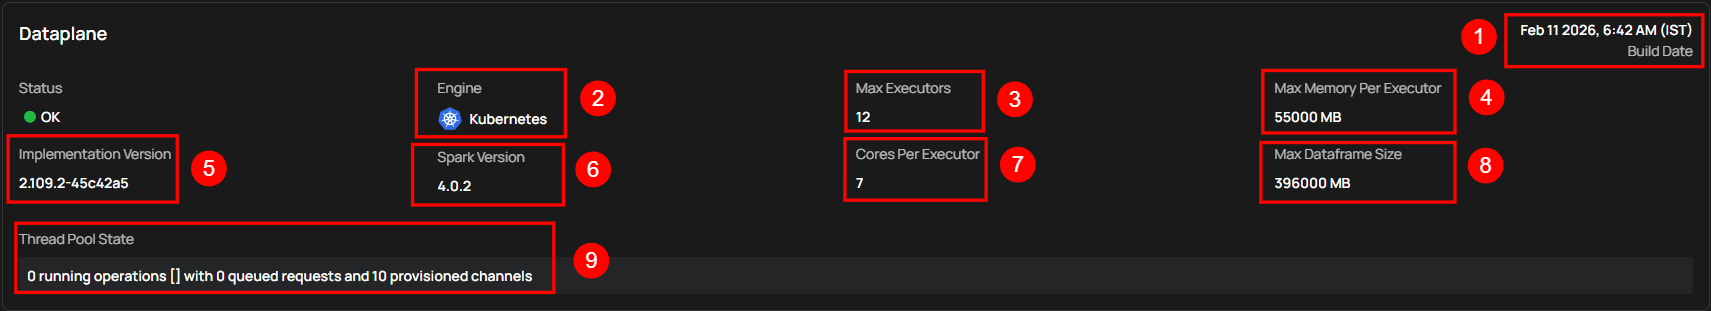
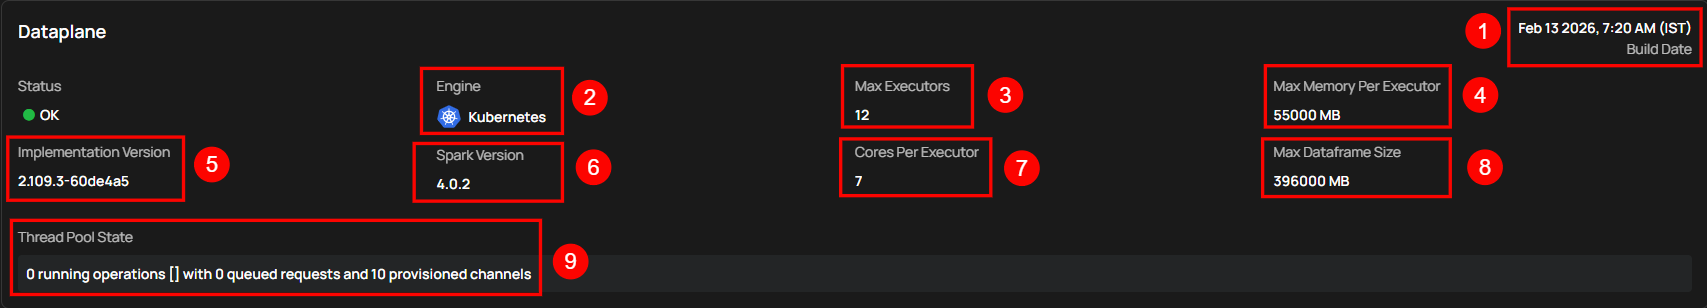
QUA-1394: Update "Status" userguide.

diff --git a/docs/settings/status/overview-of-status.md b/docs/settings/status/overview-of-status.md
@@ -42,15 +42,15 @@ The **Dataplane** section provides advanced information about the analytics engi
 
 | REF | FIELD | ACTION | EXAMPLE |
 |-----|-------|--------|---------|
-| 1 | Build Date | This shows the date and time when the Analytics Engine was built. | Aug 8 2024,7:39 AM (GMT+5:30) |
+| 1 | Build Date | This shows the date and time when the Analytics Engine was built. | Feb 13 2026, 7:20 AM (IST) |
 | 2 | Engine | Shows the platform used to run and manage workloads. | Kubernetes |
-| 3 | Max Executors | Maximum number of executors allocated for processing tasks. | 10 |
-| 4 | Max Memory Per Executor | This shows the maximum amount of memory allocated to each executor. | 25000 MB |
-| 5 | Implementation Version | The version of the analytics engine implementation being used.  | 2.0.0 |
-| 6 | Spark Version | The version of Apache Spark that the Analytics Engine uses for processing. | 3.5.1 |
-| 7 | Core Per Executor | This shows the number of CPU cores assigned to each executor. | 3 |
-| 8 | Max Dataframe Size | The maximum size of dataframes that can be processed.  | 50000 MB |
-| 9 | Thread Pool State | Indicates the current state of the thread pool used for executing tasks.  | \[Running, parallelism \= 3, size \= 0, active \= 0, running \= 0, steals \= 0, tasks \= 0, submissions \= 0\] supporting 0 running operation with 0 queued requests |
+| 3 | Max Executors | Maximum number of executors allocated for processing tasks. | 12 |
+| 4 | Max Memory Per Executor | This shows the maximum amount of memory allocated to each executor. | 55000 MB |
+| 5 | Implementation Version | The version of the analytics engine implementation being used.  | 2.109.3-60de4a5 |
+| 6 | Spark Version | The version of Apache Spark that the Analytics Engine uses for processing. | 4.0.2 |
+| 7 | Core Per Executor | This shows the number of CPU cores assigned to each executor. | 7 |
+| 8 | Max Dataframe Size | The maximum size of dataframes that can be processed.  | 396000 MB |
+| 9 | Thread Pool State | Indicates the current state of the thread pool used for executing tasks.  | 0 running operations [] with 0 queued requests and 10 provisioned channels |
 
 ![analytics-engine](../../assets/health/analytics-engine-light-5.png)
 
@@ -110,7 +110,7 @@ The **Copy Status Summary** feature lets you duplicate all data from the Health 
 
 ![copy-health](../../assets/health/copy-health-light-6.png)
 
-**Step 2:** After clicking on **Copy Status Summary**,  a success message saying **Copied.**
+**Step 2:** After clicking on **Copy Status Summary**, a success message appears saying **Copied.**
 
 ![copied](../../assets/health/copied-light-7.png)
 
@@ -134,7 +134,7 @@ The **Restart Analytics Engine** option restarts the analytics processing system
 
 ![restart](../../assets/health/restart-light-10.png)
 
-**Step 3:** After clicking on **Restart** button a success message saying **Successfully triggered Analytics Engine restart.**
+**Step 3:** After clicking on the **Restart** button, a success message appears saying **Successfully triggered Analytics Engine restart.**
 
 ![successfully-triggered](../../assets/health/successfully-triggered-light-11.png)
 
